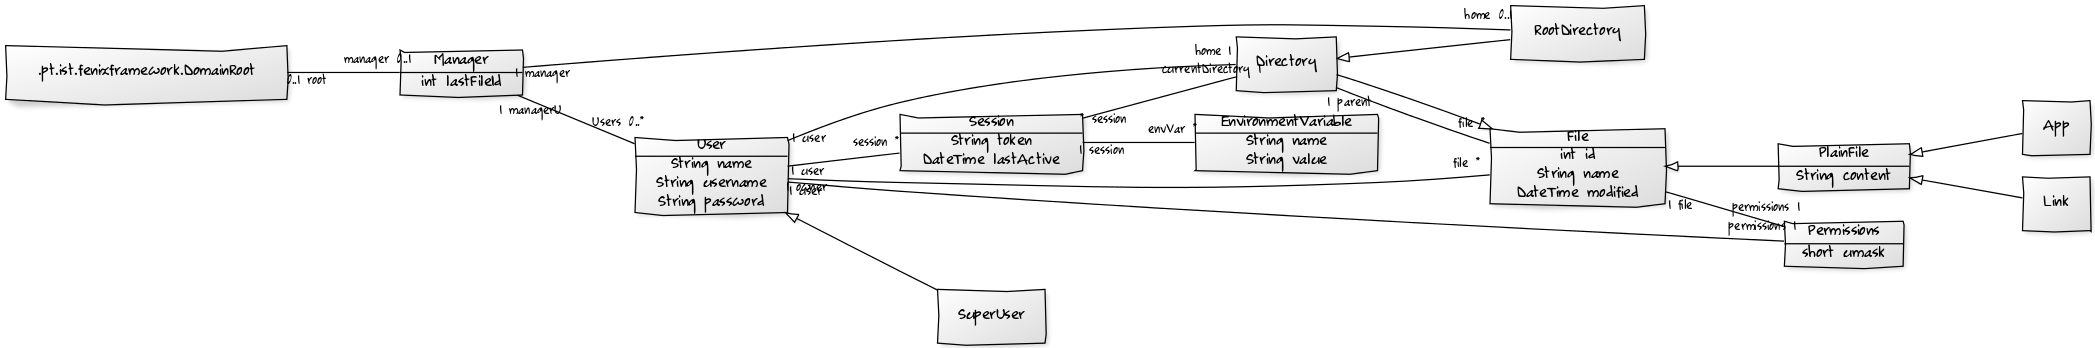
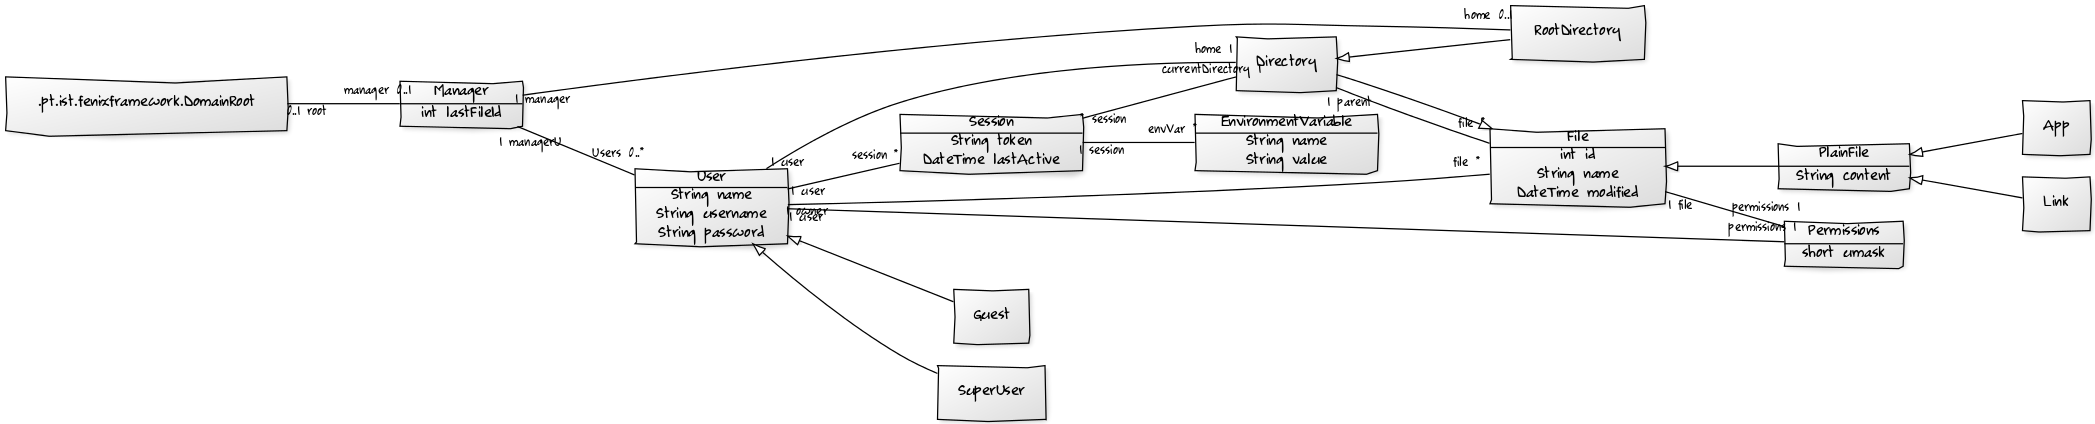
Guest user base created #72

diff --git a/src/main/java/pt/tecnico/myDrive/domain/User.java b/src/main/java/pt/tecnico/myDrive/domain/User.java
@@ -73,7 +73,7 @@ public class User extends User_Base {
      */
     protected void initHome() {
         User su = getManagerU().getSuperuser();
-        Session s = new Session(su);
+        //Session s = new Session(su);
         Directory home;
 
         if(su == null)
@@ -90,8 +90,8 @@ public class User extends User_Base {
      */
     protected void initHome(String pHomePath) {
         User su = getManagerU().getSuperuser();
-        Session s = new Session(su);
-        Directory parent = (Directory) getManagerU().getHome().searchFile("home");
+        //Session s = new Session(su);
+        Directory parent = (Directory) getManagerU().getHome().searchFile(pHomePath);
         Directory home;
         if(su == null)
             home = new Directory(this, getUsername(), parent, getManagerU());

diff --git a/src/main/java/pt/tecnico/myDrive/domain/Guest.java b/src/main/java/pt/tecnico/myDrive/domain/Guest.java
@@ -1,0 +1,9 @@
+package pt.tecnico.myDrive.domain;
+
+public class Guest extends Guest_Base {
+    
+    public Guest() {
+        super();
+    }
+    
+}
